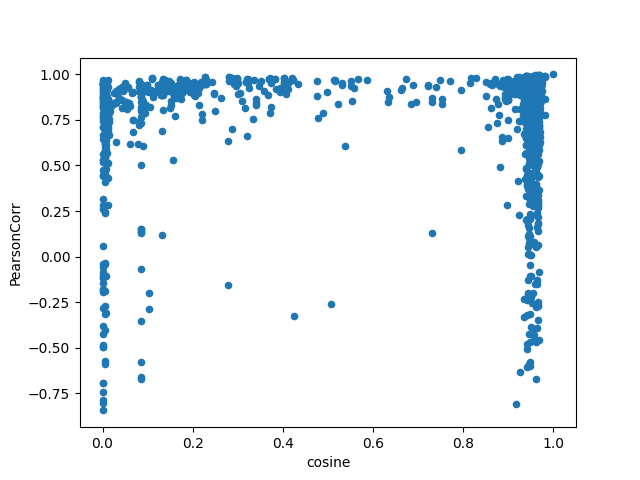
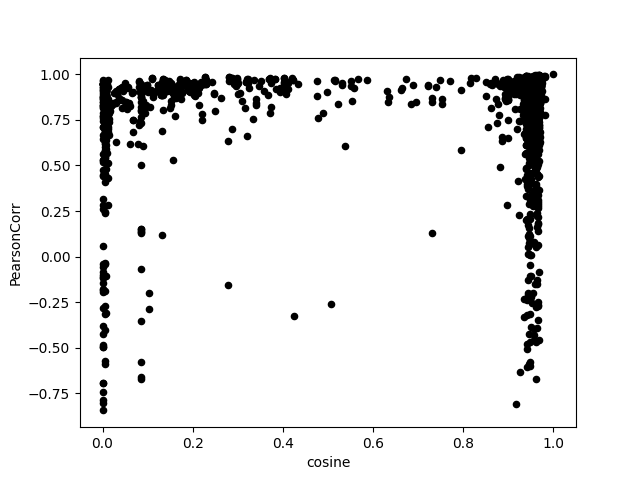
black color

diff --git a/analyzePortfolio.py b/analyzePortfolio.py
@@ -108,7 +108,7 @@ def compareCosineAndPearsonCorr():
 	df = df.drop(labels='a', axis=1)
 	print (df)
 	print (df.corr())
-	df.plot.scatter(x='110011', y='AccumulativeNetAssetValue_110011')
+	df.plot.scatter(x='110011', y='AccumulativeNetAssetValue_110011', c='k')
 	plt.xlabel("cosine")
 	plt.ylabel("PearsonCorr")
 	plt.savefig("./data/cosine_PearsonCorr.png")
